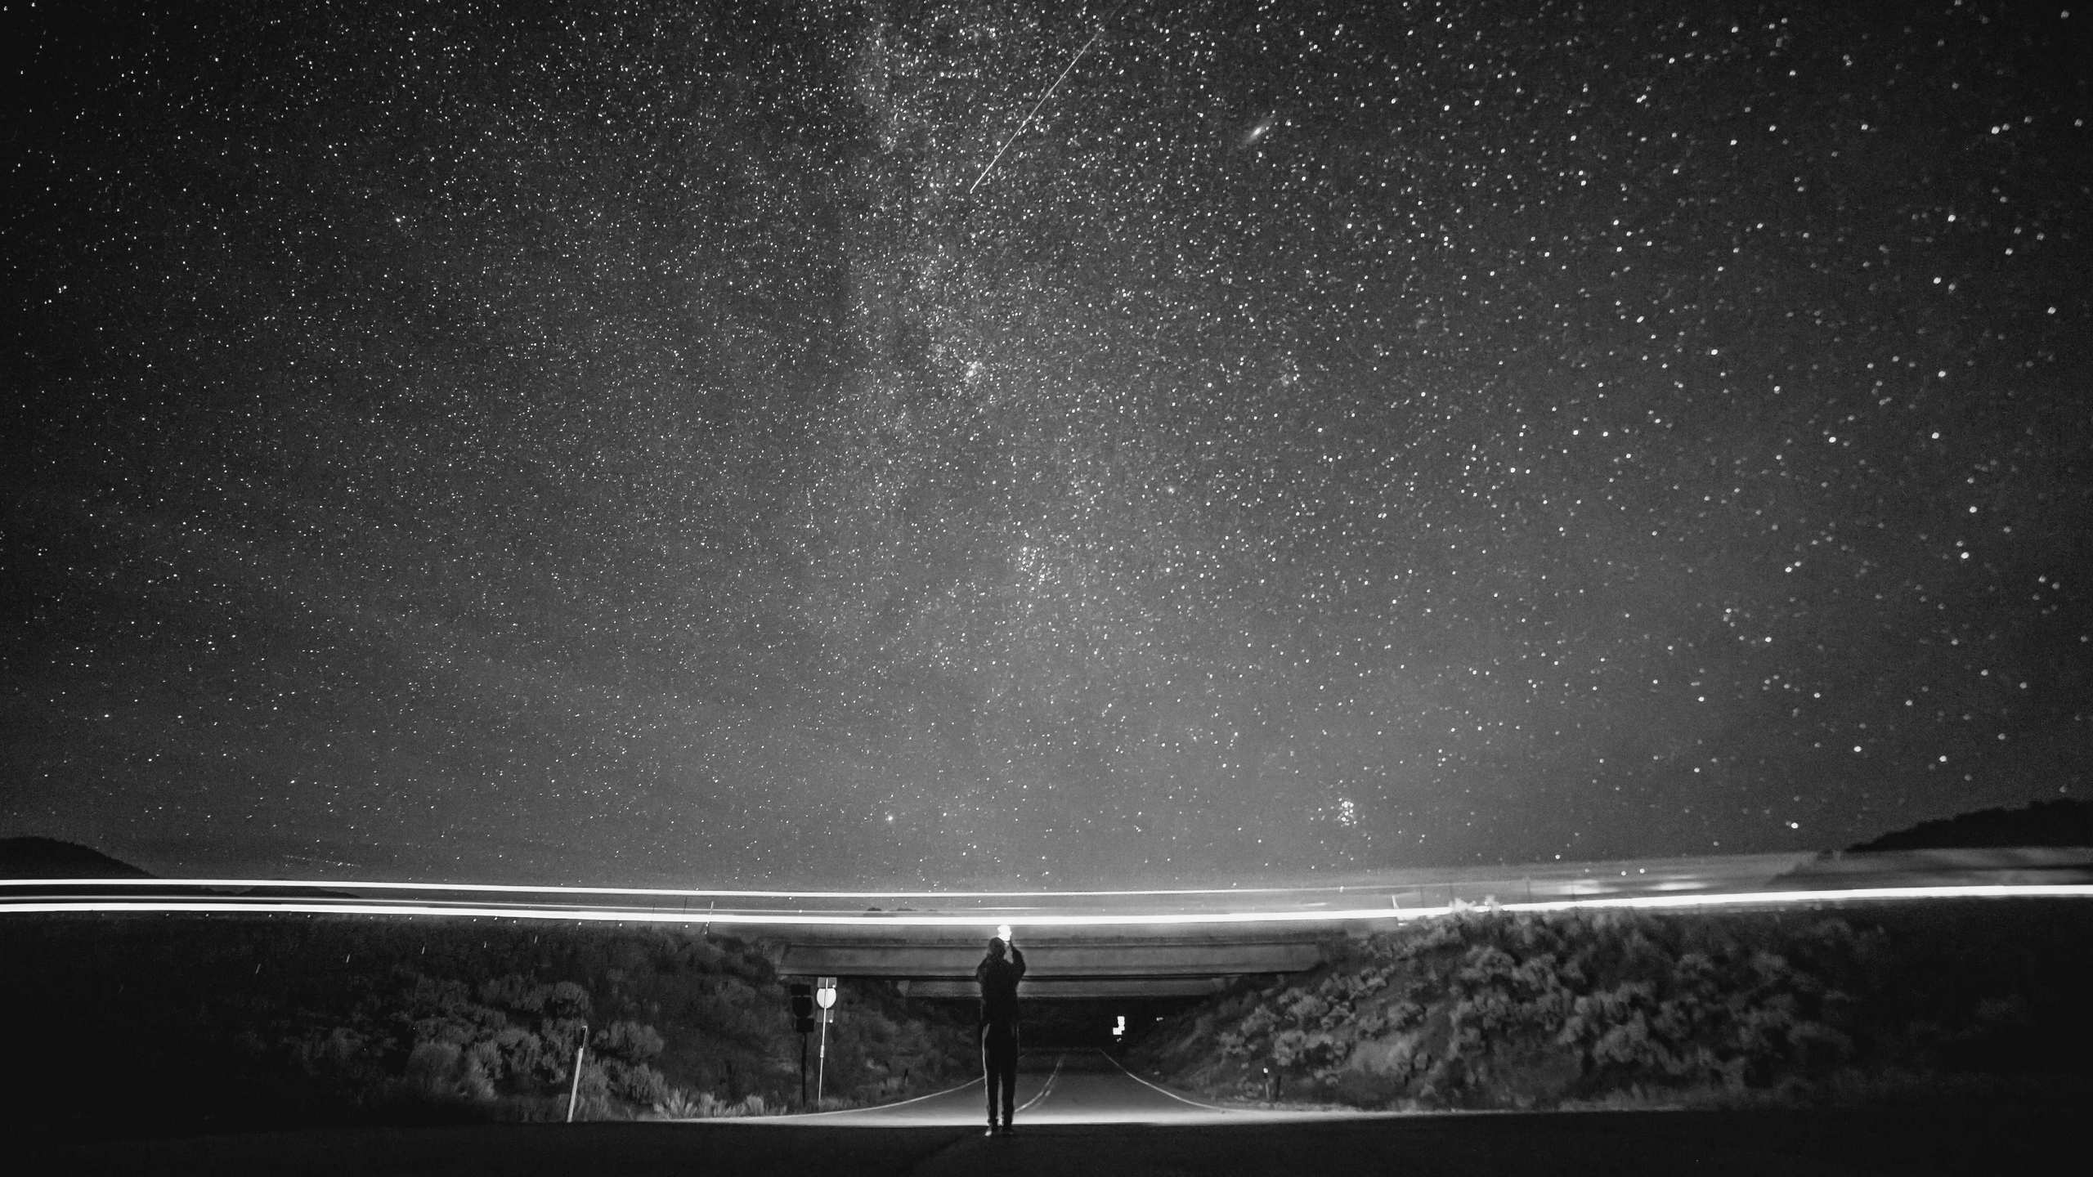
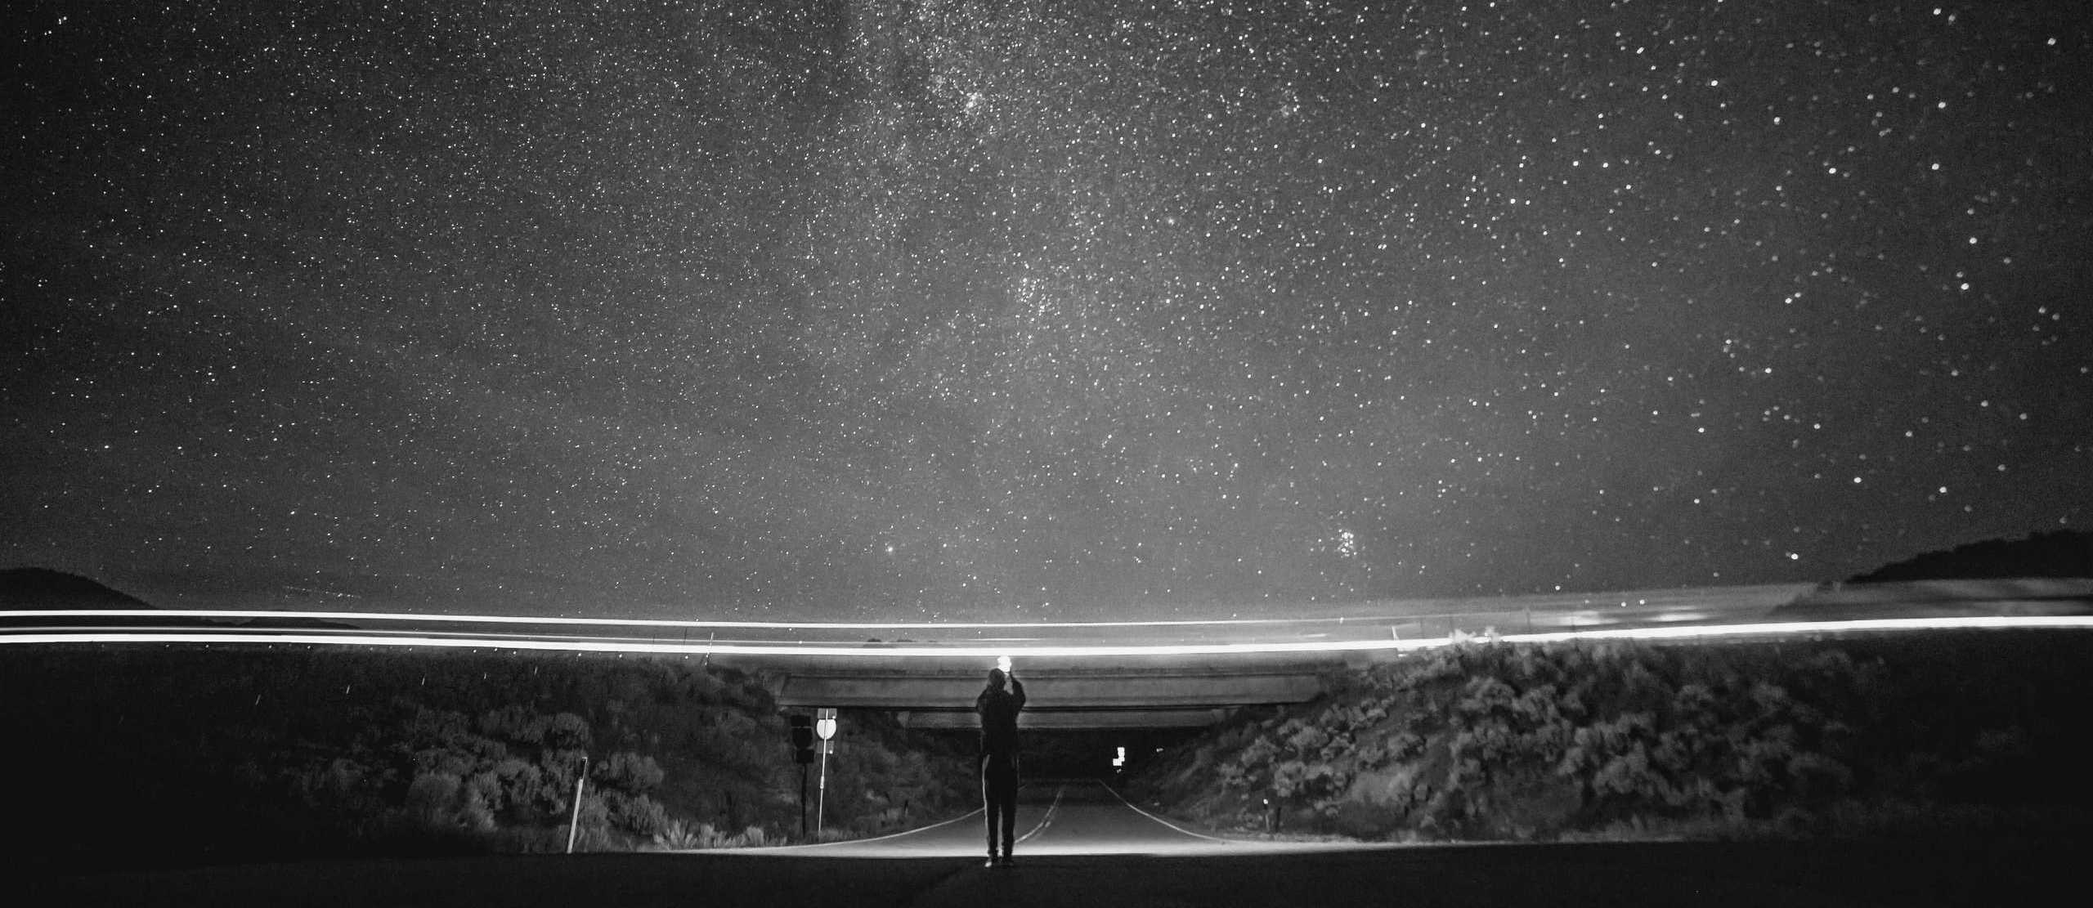
add responsiveness

diff --git a/docs/css/main.min.css b/docs/css/main.min.css
@@ -1,2 +1,2 @@
-@import url(https://fonts.googleapis.com/css?family=Roboto:400);a,abbr,acronym,address,applet,article,aside,audio,b,big,blockquote,body,canvas,caption,center,cite,code,dd,del,details,dfn,div,dl,dt,em,embed,fieldset,figcaption,figure,footer,form,h1,h2,h3,h4,h5,h6,header,hgroup,html,i,iframe,img,ins,kbd,label,legend,li,mark,menu,nav,object,ol,output,p,pre,q,ruby,s,samp,section,small,span,strike,strong,sub,summary,sup,table,tbody,td,tfoot,th,thead,time,tr,tt,u,ul,var,video{margin:0;padding:0;border:0;font-size:100%;font:inherit;vertical-align:baseline}article,aside,details,figcaption,figure,footer,header,hgroup,menu,nav,section{display:block}body{line-height:1}ol,ul{list-style:none}blockquote,q{quotes:none}blockquote:after,blockquote:before,q:after,q:before{content:"";content:none}table{border-collapse:collapse;border-spacing:0}a,a:hover{text-decoration:none}body{font-family:Roboto,sans-serif;font-size:14px;background-color:#333}.wrapper{-webkit-box-orient:vertical;-webkit-box-direction:normal;-ms-flex-direction:column;flex-direction:column;max-width:1200px;padding:0 2vh;margin:0 auto}.topheader,.wrapper{display:-webkit-box;display:-ms-flexbox;display:flex}.topheader{-ms-flex-wrap:nowrap;flex-wrap:nowrap;-webkit-box-pack:justify;-ms-flex-pack:justify;justify-content:space-between;-webkit-box-align:center;-ms-flex-align:center;align-items:center;min-height:80px}.topmenu,.topmenu ul{display:-webkit-box;display:-ms-flexbox;display:flex}.topmenu ul{-ms-flex-wrap:wrap;flex-wrap:wrap;-webkit-box-pack:start;-ms-flex-pack:start;justify-content:flex-start}.topmenu ul li a{font-size:14px;color:#fff;text-transform:uppercase}.topmenu ul li a:hover{color:#c6f}.itemlink{font-family:Roboto,sans-serif;text-align:center;padding:10px}.topmenu-item{position:relative;-webkit-transition:all .6s ease-in;transition:all .6s ease-in}.topmenu-item a{line-height:25px;filter:progid:DXImageTransform.Microsoft.Alpha(enabled=false);opacity:1;-webkit-transition:all .3s ease-in;transition:all .3s ease-in}.topmenu-item a.out{filter:progid:DXImageTransform.Microsoft.Alpha(Opacity=0);opacity:0}.bt-sl-solid-l{position:absolute;left:0;height:100%;border-left:2px solid #c6f;z-index:2;-webkit-transition:all .5s ease-in-out;transition:all .5s ease-in-out}.bt-sl-solid-l.out{left:50%}.bt-sl-solid-l.down{height:0%}.bt-sl-solid-r{position:absolute;right:-2px;height:100%;border-left:2px solid #c6f;z-index:2;-webkit-transition:all .5s ease-in-out;transition:all .5s ease-in-out}.bt-sl-solid-r.out{right:50%}.bt-sl-solid-r.down{height:0%}.social{display:-webkit-box;display:-ms-flexbox;display:flex;-ms-flex-wrap:wrap;flex-wrap:wrap;-webkit-box-pack:end;-ms-flex-pack:end;justify-content:flex-end}.social .tel{font-family:inherit;width:auto;color:#fff;font-size:16px;font-weight:400;-webkit-transition-duration:.3s;transition-duration:.3s}.social .tel:hover{-webkit-transform:rotate(0deg);transform:rotate(0deg);color:#c6f}.icon{font-size:14px;fill:currentColor;color:#fff}.social a{position:relative;display:-webkit-box;display:-ms-flexbox;display:flex;-webkit-box-align:center;-ms-flex-align:center;align-items:center;-webkit-box-pack:center;-ms-flex-pack:center;justify-content:center;width:30px;height:30px;border-radius:50%;margin-right:10px;-webkit-transition:all .9s ease-in-out;transition:all .9s ease-in-out;font-family:icomoon}.social a:last-child{margin-right:5px}.social a:hover{-webkit-transform:rotate(1turn);transform:rotate(1turn)}.social-fb{background:rgba(59,89,152,.2)}.social-fb:hover{background:rgba(59,89,152,.5)}.social-instagam{background:rgba(208,71,209,.2)}.social-instagam:hover{background:rgba(208,71,209,.5)}.social-vk{background:rgba(139,157,195,.2)}.social-vk:hover{background:rgba(139,157,195,.5)}.logo-container{-webkit-box-pack:center;-ms-flex-pack:center;justify-content:center;margin-bottom:50px;margin-top:6vh}.logo-container,.menu{display:-webkit-box;display:-ms-flexbox;display:flex}.menu{-ms-flex-wrap:wrap;flex-wrap:wrap;-webkit-box-pack:justify;-ms-flex-pack:justify;justify-content:space-between;margin-bottom:15vh}.menu-category{position:relative;display:-webkit-box;display:-ms-flexbox;display:flex;overflow:hidden;margin-bottom:30px;max-width:240px;font-family:Roboto,sans-serif;font-size:16px;color:#fff}.menu-category img{height:100%}.menu-category *{-webkit-box-sizing:border-box;box-sizing:border-box}.menu-category *,.menu-category:before{-webkit-transition:all .25s ease;transition:all .25s ease}.menu-category:before{position:absolute;top:10px;bottom:10px;left:10px;right:10px;top:100%;content:"";background-color:rgba(51,51,51,.9);-webkit-transition-delay:.25s;transition-delay:.25s}.menu-category img{width:100%;-webkit-backface-visibility:hidden;backface-visibility:hidden}.menu-category figcaption{position:absolute;top:0;bottom:0;left:0;right:0;z-index:1;display:-webkit-box;display:-ms-flexbox;display:flex;-webkit-box-align:center;-ms-flex-align:center;align-items:center;-webkit-box-orient:vertical;-webkit-box-direction:normal;-ms-flex-direction:column;flex-direction:column;-webkit-box-pack:center;-ms-flex-pack:center;justify-content:center}.menu-category h3,.menu-category h5{opacity:0;letter-spacing:1px}.menu-category h3{max-width:90%;line-height:20px;margin-bottom:5px;text-align:center;text-transform:uppercase;-webkit-transition-delay:.05s;transition-delay:.05s}.menu-category h3,.menu-category h5{-webkit-transform:translateY(-100%);transform:translateY(-100%);font-weight:400}.menu-category h5{background-color:#c6f;padding:5px 10px}.menu-category:hover:before,.menu-category h5{-webkit-transition-delay:0s;transition-delay:0s}.menu-category:hover:before{top:10px}.menu-category:hover h3,.menu-category:hover h5{-webkit-transform:translateY(0);transform:translateY(0);opacity:1;margin-bottom:10px}.menu-category:hover h3{-webkit-transition-delay:.3s;transition-delay:.3s}.menu-category:hover h5{-webkit-transition-delay:.2s;transition-delay:.2s}.tariffs-wrapper{background:url(../img/tariff_bg.jpg);background-size:cover;background-position:50%}.tafiff-container{max-width:1200px;margin:0 auto;display:-webkit-box;display:-ms-flexbox;display:flex;-webkit-box-orient:vertical;-webkit-box-direction:normal;-ms-flex-direction:column;flex-direction:column;-ms-flex-pack:distribute;justify-content:space-around}.tafiff-container .title{padding:5vh 0 10vh;text-align:center;font-size:32px;font-weight:700;color:#fff;text-transform:uppercase;letter-spacing:3px}.tafiff-container .tariffs{display:-webkit-box;display:-ms-flexbox;display:flex;-ms-flex-wrap:wrap;flex-wrap:wrap;-webkit-box-align:end;-ms-flex-align:end;align-items:flex-end;-ms-flex-pack:distribute;justify-content:space-around;padding:0 2vw 15vh;color:#fff;font-size:18px}.tafiff-container .tariffs section{max-width:260px;min-width:240px;margin-top:3vh;border-radius:10px;-webkit-transform:translateZ(0);transform:translateZ(0);-webkit-box-shadow:0 0 1px transparent;box-shadow:0 0 1px transparent;-webkit-backface-visibility:hidden;backface-visibility:hidden;-webkit-font-smoothing:antialiased;-moz-osx-font-smoothing:grayscale;-webkit-transition:all .3s ease;transition:all .3s ease}.tafiff-container .tariffs section:hover{-webkit-transform:scale(1.05);transform:scale(1.05)}.tafiff-container .tariffs .header{padding:1.5vh 0;font-size:18px;text-transform:uppercase;font-weight:700;border-top-right-radius:10px;border-top-left-radius:10px;border-bottom:1px solid grey}.tafiff-container .tariffs li{padding:1.5vh 1vw;text-align:center;line-height:22px}.tafiff-container .tariffs li a{color:#fff;padding:4% 25%;background-color:#fff;border-radius:10px}.tafiff-container .tariffs li:last-child{margin-top:1vh;margin-bottom:2vh}.tafiff-container .tariff-catalog{background-color:rgba(212,174,79,.8)}.tafiff-container .tariff-catalog .header{background-color:#d4ae4f}.tafiff-container .tariff-catalog .button{color:#d4ae4f}.tafiff-container .tariff-catalog:hover{background-color:rgba(212,174,79,.9)}.tafiff-container .tariff-portrait{background-color:rgba(145,184,68,.8)}.tafiff-container .tariff-portrait .header{background-color:#91b844}.tafiff-container .tariff-portrait .button{color:#91b844}.tafiff-container .tariff-portrait:hover{background-color:rgba(145,184,68,.9)}.tafiff-container .tariff-family{background-color:rgba(104,78,156,.8)}.tafiff-container .tariff-family .header{background-color:#684e9c}.tafiff-container .tariff-family .button{color:#684e9c}.tafiff-container .tariff-family:hover{background-color:rgba(104,78,156,.9)}.tafiff-container .tariff-wedding{background-color:rgba(161,57,81,.8)}.tafiff-container .tariff-wedding .header{background-color:#a13951}.tafiff-container .tariff-wedding .button{color:#a13951}.tafiff-container .tariff-wedding:hover{background-color:rgba(161,57,81,.9)}.footer{background:rgba(51,0,51,.1)}.footer-inner{-webkit-box-orient:vertical;-webkit-box-direction:normal;-ms-flex-direction:column;flex-direction:column;max-width:1200px;margin:0 auto;padding:5vh}.footer-bar,.footer-inner{display:-webkit-box;display:-ms-flexbox;display:flex}.footer-bar{-ms-flex-wrap:wrap;flex-wrap:wrap;-webkit-box-align:center;-ms-flex-align:center;align-items:center;-ms-flex-pack:distribute;justify-content:space-around;border-bottom:1px solid #999;padding-bottom:3vh}.footer-about{width:240px;text-align:center}.footer-about p{margin-top:3vh;line-height:20px;color:#999}.footer-ava{height:240px;-webkit-transition:all .5s ease-in-out;transition:all .5s ease-in-out}.footer-ava:hover{-webkit-transform:rotate(36deg) scale(1.1);transform:rotate(36deg) scale(1.1)}.footer-about,.footer-blog,.footer-menu{margin-bottom:2vh}.footer-menu{color:#fff;text-align:center;letter-spacing:2px}.footer-menu li{margin-bottom:10px}.footer-menu-title{display:block;margin-bottom:20px;font-size:14px;font-weight:700}.footer-menu-item{color:#999}.footer-menu-item:hover{color:#c6f}.footer-blog{max-width:480px;padding-left:20px;padding-right:20px;text-align:center;line-height:20px;letter-spacing:1px;color:#fff}.footer-contacts{padding-top:5vh;text-align:center;color:#999;line-height:30px}.footer-contacts a{color:#fff}.footer-contacts a:hover{color:#c6f}.footer-social a{margin-right:20px;font-size:12px;color:#fff;text-transform:uppercase}@media only screen and (max-width:768px){.menu{-ms-flex-pack:distribute;justify-content:space-around}}
+@import url(https://fonts.googleapis.com/css?family=Roboto:400);a,abbr,acronym,address,applet,article,aside,audio,b,big,blockquote,body,canvas,caption,center,cite,code,dd,del,details,dfn,div,dl,dt,em,embed,fieldset,figcaption,figure,footer,form,h1,h2,h3,h4,h5,h6,header,hgroup,html,i,iframe,img,ins,kbd,label,legend,li,mark,menu,nav,object,ol,output,p,pre,q,ruby,s,samp,section,small,span,strike,strong,sub,summary,sup,table,tbody,td,tfoot,th,thead,time,tr,tt,u,ul,var,video{margin:0;padding:0;border:0;font-size:100%;font:inherit;vertical-align:baseline}article,aside,details,figcaption,figure,footer,header,hgroup,menu,nav,section{display:block}body{line-height:1}ol,ul{list-style:none}blockquote,q{quotes:none}blockquote:after,blockquote:before,q:after,q:before{content:"";content:none}table{border-collapse:collapse;border-spacing:0}a,a:hover{text-decoration:none}body{font-family:Roboto,sans-serif;font-size:14px;background-color:#333}.wrapper{-webkit-box-orient:vertical;-webkit-box-direction:normal;-ms-flex-direction:column;flex-direction:column;max-width:1200px;padding:0 2vh;margin:0 auto}.topheader,.wrapper{display:-webkit-box;display:-ms-flexbox;display:flex}.topheader{-ms-flex-wrap:nowrap;flex-wrap:nowrap;-webkit-box-pack:justify;-ms-flex-pack:justify;justify-content:space-between;-webkit-box-align:center;-ms-flex-align:center;align-items:center;min-height:80px}.topmenu,.topmenu ul{display:-webkit-box;display:-ms-flexbox;display:flex}.topmenu ul{-ms-flex-wrap:wrap;flex-wrap:wrap;-webkit-box-pack:start;-ms-flex-pack:start;justify-content:flex-start}.topmenu ul li a{font-size:14px;color:#fff;text-transform:uppercase}.topmenu ul li a:hover{color:#c6f}.itemlink{font-family:Roboto,sans-serif;text-align:center;padding:10px}.topmenu-item{position:relative;-webkit-transition:all .6s ease-in;transition:all .6s ease-in}.topmenu-item a{line-height:25px;filter:progid:DXImageTransform.Microsoft.Alpha(enabled=false);opacity:1;-webkit-transition:all .3s ease-in;transition:all .3s ease-in}.topmenu-item a.out{filter:progid:DXImageTransform.Microsoft.Alpha(Opacity=0);opacity:0}.bt-sl-solid-l{position:absolute;left:0;height:100%;border-left:2px solid #c6f;z-index:2;-webkit-transition:all .5s ease-in-out;transition:all .5s ease-in-out}.bt-sl-solid-l.out{left:50%}.bt-sl-solid-l.down{height:0%}.bt-sl-solid-r{position:absolute;right:-2px;height:100%;border-left:2px solid #c6f;z-index:2;-webkit-transition:all .5s ease-in-out;transition:all .5s ease-in-out}.bt-sl-solid-r.out{right:50%}.bt-sl-solid-r.down{height:0%}.social{display:-webkit-box;display:-ms-flexbox;display:flex;-ms-flex-wrap:wrap;flex-wrap:wrap;-webkit-box-pack:end;-ms-flex-pack:end;justify-content:flex-end}.social .tel{font-family:inherit;width:auto;color:#fff;font-size:16px;font-weight:400;-webkit-transition-duration:.3s;transition-duration:.3s}.social .tel:hover{-webkit-transform:rotate(0deg);transform:rotate(0deg);color:#c6f}.icon{font-size:14px;fill:currentColor;color:#fff}.social a{position:relative;display:-webkit-box;display:-ms-flexbox;display:flex;-webkit-box-align:center;-ms-flex-align:center;align-items:center;-webkit-box-pack:center;-ms-flex-pack:center;justify-content:center;width:30px;height:30px;border-radius:50%;margin-right:10px;-webkit-transition:all .9s ease-in-out;transition:all .9s ease-in-out;font-family:icomoon}.social a:last-child{margin-right:5px}.social a:hover{-webkit-transform:rotate(1turn);transform:rotate(1turn)}.social-fb{background:rgba(59,89,152,.2)}.social-fb:hover{background:rgba(59,89,152,.5)}.social-instagam{background:rgba(208,71,209,.2)}.social-instagam:hover{background:rgba(208,71,209,.5)}.social-vk{background:rgba(139,157,195,.2)}.social-vk:hover{background:rgba(139,157,195,.5)}.logo-container{-webkit-box-pack:center;-ms-flex-pack:center;justify-content:center;margin-bottom:50px;margin-top:6vh}.logo-container,.menu{display:-webkit-box;display:-ms-flexbox;display:flex}.menu{-ms-flex-wrap:wrap;flex-wrap:wrap;-webkit-box-pack:justify;-ms-flex-pack:justify;justify-content:space-between;margin-bottom:15vh}.menu-category{position:relative;display:-webkit-box;display:-ms-flexbox;display:flex;overflow:hidden;margin-bottom:30px;max-width:240px;font-family:Roboto,sans-serif;font-size:16px;color:#fff}.menu-category img{height:100%}.menu-category *{-webkit-box-sizing:border-box;box-sizing:border-box}.menu-category *,.menu-category:before{-webkit-transition:all .25s ease;transition:all .25s ease}.menu-category:before{position:absolute;top:10px;bottom:10px;left:10px;right:10px;top:100%;content:"";background-color:rgba(51,51,51,.9);-webkit-transition-delay:.25s;transition-delay:.25s}.menu-category img{width:100%;-webkit-backface-visibility:hidden;backface-visibility:hidden}.menu-category figcaption{position:absolute;top:0;bottom:0;left:0;right:0;z-index:1;display:-webkit-box;display:-ms-flexbox;display:flex;-webkit-box-align:center;-ms-flex-align:center;align-items:center;-webkit-box-orient:vertical;-webkit-box-direction:normal;-ms-flex-direction:column;flex-direction:column;-webkit-box-pack:center;-ms-flex-pack:center;justify-content:center}.menu-category h3,.menu-category h5{opacity:0;letter-spacing:1px}.menu-category h3{max-width:90%;line-height:20px;margin-bottom:5px;text-align:center;text-transform:uppercase;-webkit-transition-delay:.05s;transition-delay:.05s}.menu-category h3,.menu-category h5{-webkit-transform:translateY(-100%);transform:translateY(-100%);font-weight:400}.menu-category h5{background-color:#c6f;padding:5px 10px}.menu-category:hover:before,.menu-category h5{-webkit-transition-delay:0s;transition-delay:0s}.menu-category:hover:before{top:10px}.menu-category:hover h3,.menu-category:hover h5{-webkit-transform:translateY(0);transform:translateY(0);opacity:1;margin-bottom:10px}.menu-category:hover h3{-webkit-transition-delay:.3s;transition-delay:.3s}.menu-category:hover h5{-webkit-transition-delay:.2s;transition-delay:.2s}.tariffs-wrapper{background:url(../img/tariff_bg.jpg);background-size:cover;background-position:50%}.tafiff-container{max-width:1200px;margin:0 auto;display:-webkit-box;display:-ms-flexbox;display:flex;-webkit-box-orient:vertical;-webkit-box-direction:normal;-ms-flex-direction:column;flex-direction:column;-ms-flex-pack:distribute;justify-content:space-around}.tafiff-container .title{padding:5vh 0 10vh;text-align:center;font-size:32px;font-weight:700;color:#fff;text-transform:uppercase;letter-spacing:3px}.tafiff-container .tariffs{display:-webkit-box;display:-ms-flexbox;display:flex;-ms-flex-wrap:wrap;flex-wrap:wrap;-webkit-box-align:end;-ms-flex-align:end;align-items:flex-end;-ms-flex-pack:distribute;justify-content:space-around;padding:0 2vw 15vh;color:#fff;font-size:18px}.tafiff-container .tariffs section{max-width:260px;min-width:240px;margin-top:4vh;border-radius:10px;-webkit-transform:translateZ(0);transform:translateZ(0);-webkit-box-shadow:0 0 1px transparent;box-shadow:0 0 1px transparent;-webkit-backface-visibility:hidden;backface-visibility:hidden;-webkit-font-smoothing:antialiased;-moz-osx-font-smoothing:grayscale;-webkit-transition:all .3s ease;transition:all .3s ease}.tafiff-container .tariffs section:hover{-webkit-transform:scale(1.05);transform:scale(1.05)}.tafiff-container .tariffs .header{padding:1.5vh 0;font-size:18px;text-transform:uppercase;font-weight:700;border-top-right-radius:10px;border-top-left-radius:10px;border-bottom:1px solid grey}.tafiff-container .tariffs li{padding:1.5vh 1vw;text-align:center;line-height:22px}.tafiff-container .tariffs li a{color:#fff;padding:4% 25%;background-color:#fff;border-radius:10px}.tafiff-container .tariffs li:last-child{margin-top:1vh;margin-bottom:2vh}.tafiff-container .tariff-catalog{background-color:rgba(212,174,79,.8)}.tafiff-container .tariff-catalog .header{background-color:#d4ae4f}.tafiff-container .tariff-catalog .button{color:#d4ae4f}.tafiff-container .tariff-catalog:hover{background-color:rgba(212,174,79,.9)}.tafiff-container .tariff-portrait{background-color:rgba(145,184,68,.8)}.tafiff-container .tariff-portrait .header{background-color:#91b844}.tafiff-container .tariff-portrait .button{color:#91b844}.tafiff-container .tariff-portrait:hover{background-color:rgba(145,184,68,.9)}.tafiff-container .tariff-family{background-color:rgba(104,78,156,.8)}.tafiff-container .tariff-family .header{background-color:#684e9c}.tafiff-container .tariff-family .button{color:#684e9c}.tafiff-container .tariff-family:hover{background-color:rgba(104,78,156,.9)}.tafiff-container .tariff-wedding{background-color:rgba(161,57,81,.8)}.tafiff-container .tariff-wedding .header{background-color:#a13951}.tafiff-container .tariff-wedding .button{color:#a13951}.tafiff-container .tariff-wedding:hover{background-color:rgba(161,57,81,.9)}.footer{background:rgba(51,0,51,.1)}.footer-inner{-webkit-box-orient:vertical;-webkit-box-direction:normal;-ms-flex-direction:column;flex-direction:column;max-width:1200px;margin:0 auto;padding:5vh}.footer-bar,.footer-inner{display:-webkit-box;display:-ms-flexbox;display:flex}.footer-bar{-ms-flex-wrap:wrap;flex-wrap:wrap;-webkit-box-align:center;-ms-flex-align:center;align-items:center;-ms-flex-pack:distribute;justify-content:space-around;border-bottom:1px solid #999;padding-bottom:3vh}.footer-about{width:240px;text-align:center}.footer-about p{margin-top:3vh;line-height:20px;color:#999}.footer-ava{height:240px;-webkit-transition:all .5s ease-in-out;transition:all .5s ease-in-out}.footer-ava:hover{-webkit-transform:rotate(36deg) scale(1.1);transform:rotate(36deg) scale(1.1)}.footer-about,.footer-blog,.footer-menu{margin-bottom:2vh}.footer-menu{color:#fff;text-align:center;letter-spacing:2px}.footer-menu li{margin-bottom:10px}.footer-menu-title{display:block;margin-bottom:20px;font-size:14px;font-weight:700}.footer-menu-item{color:#999}.footer-menu-item:hover{color:#c6f}.footer-blog{max-width:480px;padding-left:20px;padding-right:20px;text-align:center;line-height:20px;letter-spacing:1px;color:#fff}.footer-contacts{padding-top:5vh;text-align:center;color:#999;line-height:30px}.footer-contacts a{color:#fff}.footer-contacts a:hover{color:#c6f}.footer-social a{margin-right:20px;font-size:12px;color:#fff;text-transform:uppercase}@media only screen and (max-width:768px){.menu{-ms-flex-pack:distribute;justify-content:space-around}}@media only screen and (max-width:540px){.tafiff-container .tariffs section{max-width:80%}}@media only screen and (min-width:320px){.tariffs-wrapper{background:url(../img/tariff_bg--480.jpg)}}@media only screen and (min-width:480px){.tariffs-wrapper{background:url(../img/tariff_bg--768.jpg)}}@media only screen and (min-width:768px){.tariffs-wrapper{background:url(../img/tariff_bg--1366.jpg)}}@media only screen and (min-width:1200px){.tariffs-wrapper{background:url(../img/tariff_bg--1920.jpg)}}@media only screen and (min-width:1920px){.tariffs-wrapper{background:url(../img/tariff_bg.jpg)}}
 /*# sourceMappingURL=maps/main.min.css.map */
